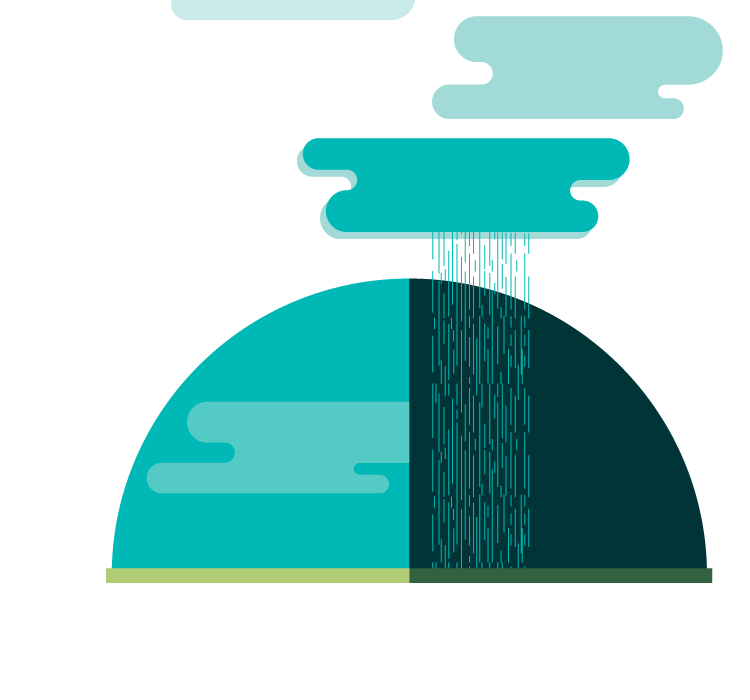
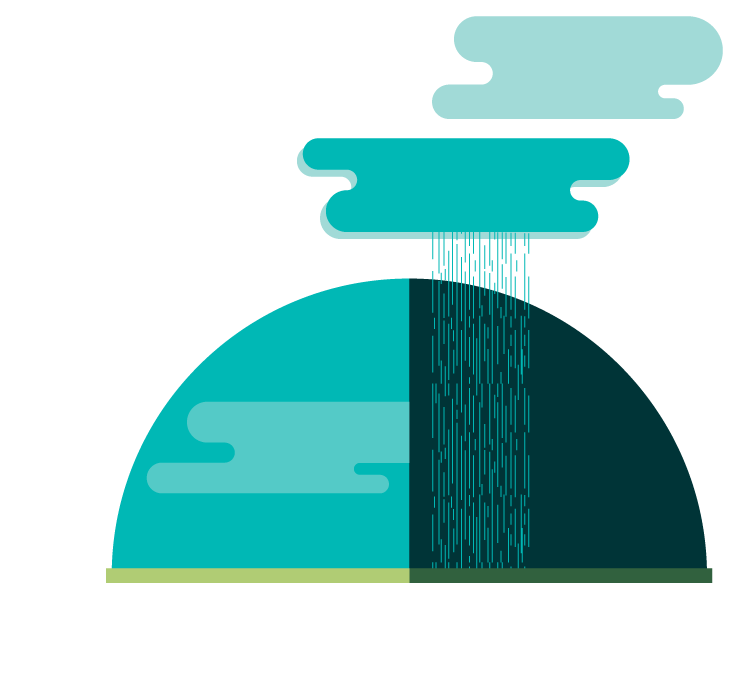
Full IE8-9 compatibility and background cloud removal.

Changed region(s): [[0.2147, 0.0, 0.552, 0.03]]

diff --git a/css/style.css b/css/style.css
@@ -58,7 +58,8 @@ td{vertical-align:top;}
 .clearfix:before,.clearfix:after{content:"";display:table;}
 .clearfix:after{clear:both;}
 .clearfix{zoom:1;}
-@media only screen and (min-width: 480px){}@media only screen and (min-width: 768px){}@media print{*{background:transparent !important;color:black !important;text-shadow:none !important;filter:none !important;-ms-filter:none !important;} a,a:visited{text-decoration:underline;} a[href]:after{content:" (" attr(href) ")";} abbr[title]:after{content:" (" attr(title) ")";} .ir a:after,a[href^="javascript:"]:after,a[href^="#"]:after{content:"";} pre,blockquote{border:1px solid #999;page-break-inside:avoid;} thead{display:table-header-group;} tr,img{page-break-inside:avoid;} img{max-width:100% !important;} @page {margin:0.5cm;}p,h2,h3{orphans:3;widows:3;} h2,h3{page-break-after:avoid;}}#masterContainer{width:1000px;height:800px;margin:0 auto;position:relative;}
+@media only screen and (min-width: 480px){}@media only screen and (min-width: 768px){}@media print{*{background:transparent !important;color:black !important;text-shadow:none !important;filter:none !important;-ms-filter:none !important;} a,a:visited{text-decoration:underline;} a[href]:after{content:" (" attr(href) ")";} abbr[title]:after{content:" (" attr(title) ")";} .ir a:after,a[href^="javascript:"]:after,a[href^="#"]:after{content:"";} pre,blockquote{border:1px solid #999;page-break-inside:avoid;} thead{display:table-header-group;} tr,img{page-break-inside:avoid;} img{max-width:100% !important;} @page {margin:0.5cm;}p,h2,h3{orphans:3;widows:3;} h2,h3{page-break-after:avoid;}}bdo{margin-top:0px;padding-top:0px;}
+#masterContainer{width:1000px;height:800px;margin:0 auto;position:relative;}
 #formCont{width:490px;position:relative;top:50px;left:50px;z-index:2;}
 ._GeneralPositioning{position:absolute;margin:0;padding:0;z-index:999;}
 ._GeneralInputStyles{text-align:right;padding:2px;-webkit-border-radius:5px;-moz-border-radius:5px;border-radius:5px;-moz-box-shadow:4px 4px 8px #C9C9C9;-webkit-box-shadow:4px 4px 8px #C9C9C9;box-shadow:4px 4px 8px #C9C9C9;border-color:#6F6F6F;border-width:1px;}
@@ -152,7 +153,7 @@ td{vertical-align:top;}
 #Xc{position:absolute;margin:0;padding:0;z-index:999;top:572px;left:122px;font-size:16px;color:#999999;}
 #Yc{position:absolute;margin:0;padding:0;z-index:999;top:572px;left:235px;font-size:16px;color:#999999;}
 #calculateBTN{position:absolute;margin:0;padding:0;z-index:999;top:570px;left:345px;height:14px;padding:4px;background-color:#999999;cursor:pointer;width:90px;text-align:center;text-transform:uppercase;color:white;border-color:black;border-width:1px;border-style:solid;font-weight:bold;font-size:12px;-moz-box-shadow:4px 4px 8px #C9C9C9;-webkit-box-shadow:4px 4px 8px #C9C9C9;box-shadow:4px 4px 8px #C9C9C9;background:#adadad;background:-moz-linear-gradient(top, #adadad 0%, #cccccc 100%);background:-webkit-gradient(linear, left top, left bottom, color-stop(0%, #adadad), color-stop(100%, #cccccc));background:-webkit-linear-gradient(top, #adadad 0%, #cccccc 100%);background:-o-linear-gradient(top, #adadad 0%, #cccccc 100%);background:-ms-linear-gradient(top, #adadad 0%, #cccccc 100%);background:linear-gradient(top, #adadad 0%, #cccccc 100%);text-shadow:1px 1px 2px #333333;}
-#calculateBTN:hover{background:#adadad;background:-moz-linear-gradient(top, #adadad 0%, #494949 100%);background:-webkit-gradient(linear, left top, left bottom, color-stop(0%, #adadad), color-stop(100%, #494949));background:-webkit-linear-gradient(top, #adadad 0%, #494949 100%);background:-o-linear-gradient(top, #adadad 0%, #494949 100%);background:-ms-linear-gradient(top, #adadad 0%, #494949 100%);background:linear-gradient(top, #adadad 0%, #494949 100%);}
+#calculateBTN:hover{background:#333333;background:-moz-linear-gradient(top, #adadad 0%, #494949 100%);background:-webkit-gradient(linear, left top, left bottom, color-stop(0%, #adadad), color-stop(100%, #494949));background:-webkit-linear-gradient(top, #adadad 0%, #494949 100%);background:-o-linear-gradient(top, #adadad 0%, #494949 100%);background:-ms-linear-gradient(top, #adadad 0%, #494949 100%);background:linear-gradient(top, #adadad 0%, #494949 100%);}
 #clearBTN{position:absolute;margin:0;padding:0;z-index:999;top:600px;left:345px;height:14px;padding:4px;cursor:pointer;width:90px;text-align:center;text-transform:uppercase;color:#666666;font-size:10px;text-decoration:underline;}
 #clearBTN:hover{text-decoration:none;}
 #shader1{position:absolute;margin:0;padding:0;z-index:999;width:109px;height:210px;background-color:#E1E2E3;z-index:0;top:420px;}

diff --git a/css/style.less b/css/style.less
@@ -295,6 +295,11 @@ td { vertical-align: top; }
   h2, h3 { page-break-after: avoid; }
 }
 
+bdo{
+	margin-top:0px;
+	padding-top:0px;
+}
+
 
 //Begin GLoabl styles
 #masterContainer{
@@ -1185,7 +1190,7 @@ text-shadow: 1px 1px 2px #333333;
 }
 
 #calculateBTN:hover{
-background: #adadad; /* Old browsers */
+background: #333333; /* Old browsers */
 background: -moz-linear-gradient(top, #adadad 0%, #494949 100%); /* FF3.6+ */
 background: -webkit-gradient(linear, left top, left bottom, color-stop(0%,#adadad), color-stop(100%,#494949)); /* Chrome,Safari4+ */
 background: -webkit-linear-gradient(top, #adadad 0%,#494949 100%); /* Chrome10+,Safari5.1+ */
